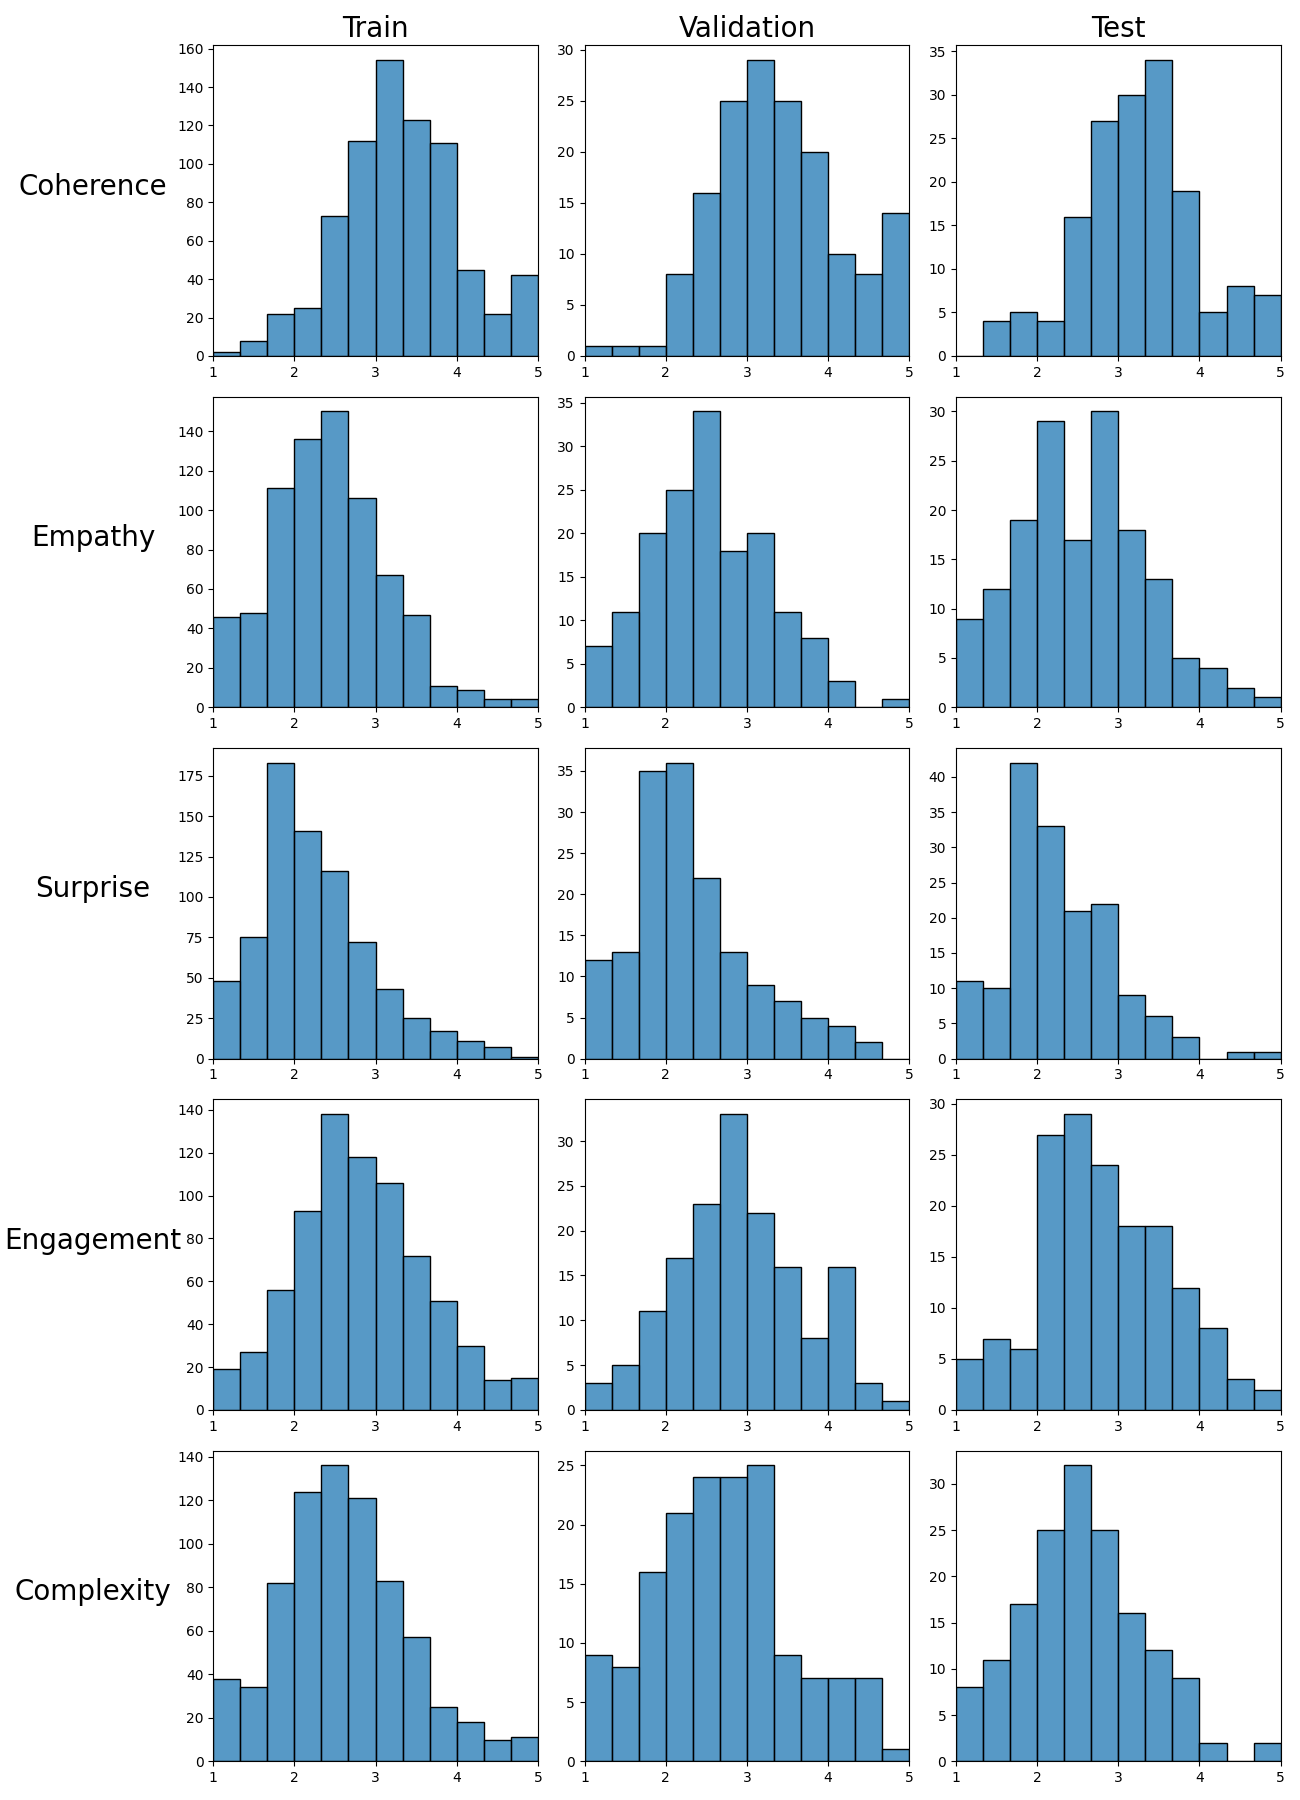
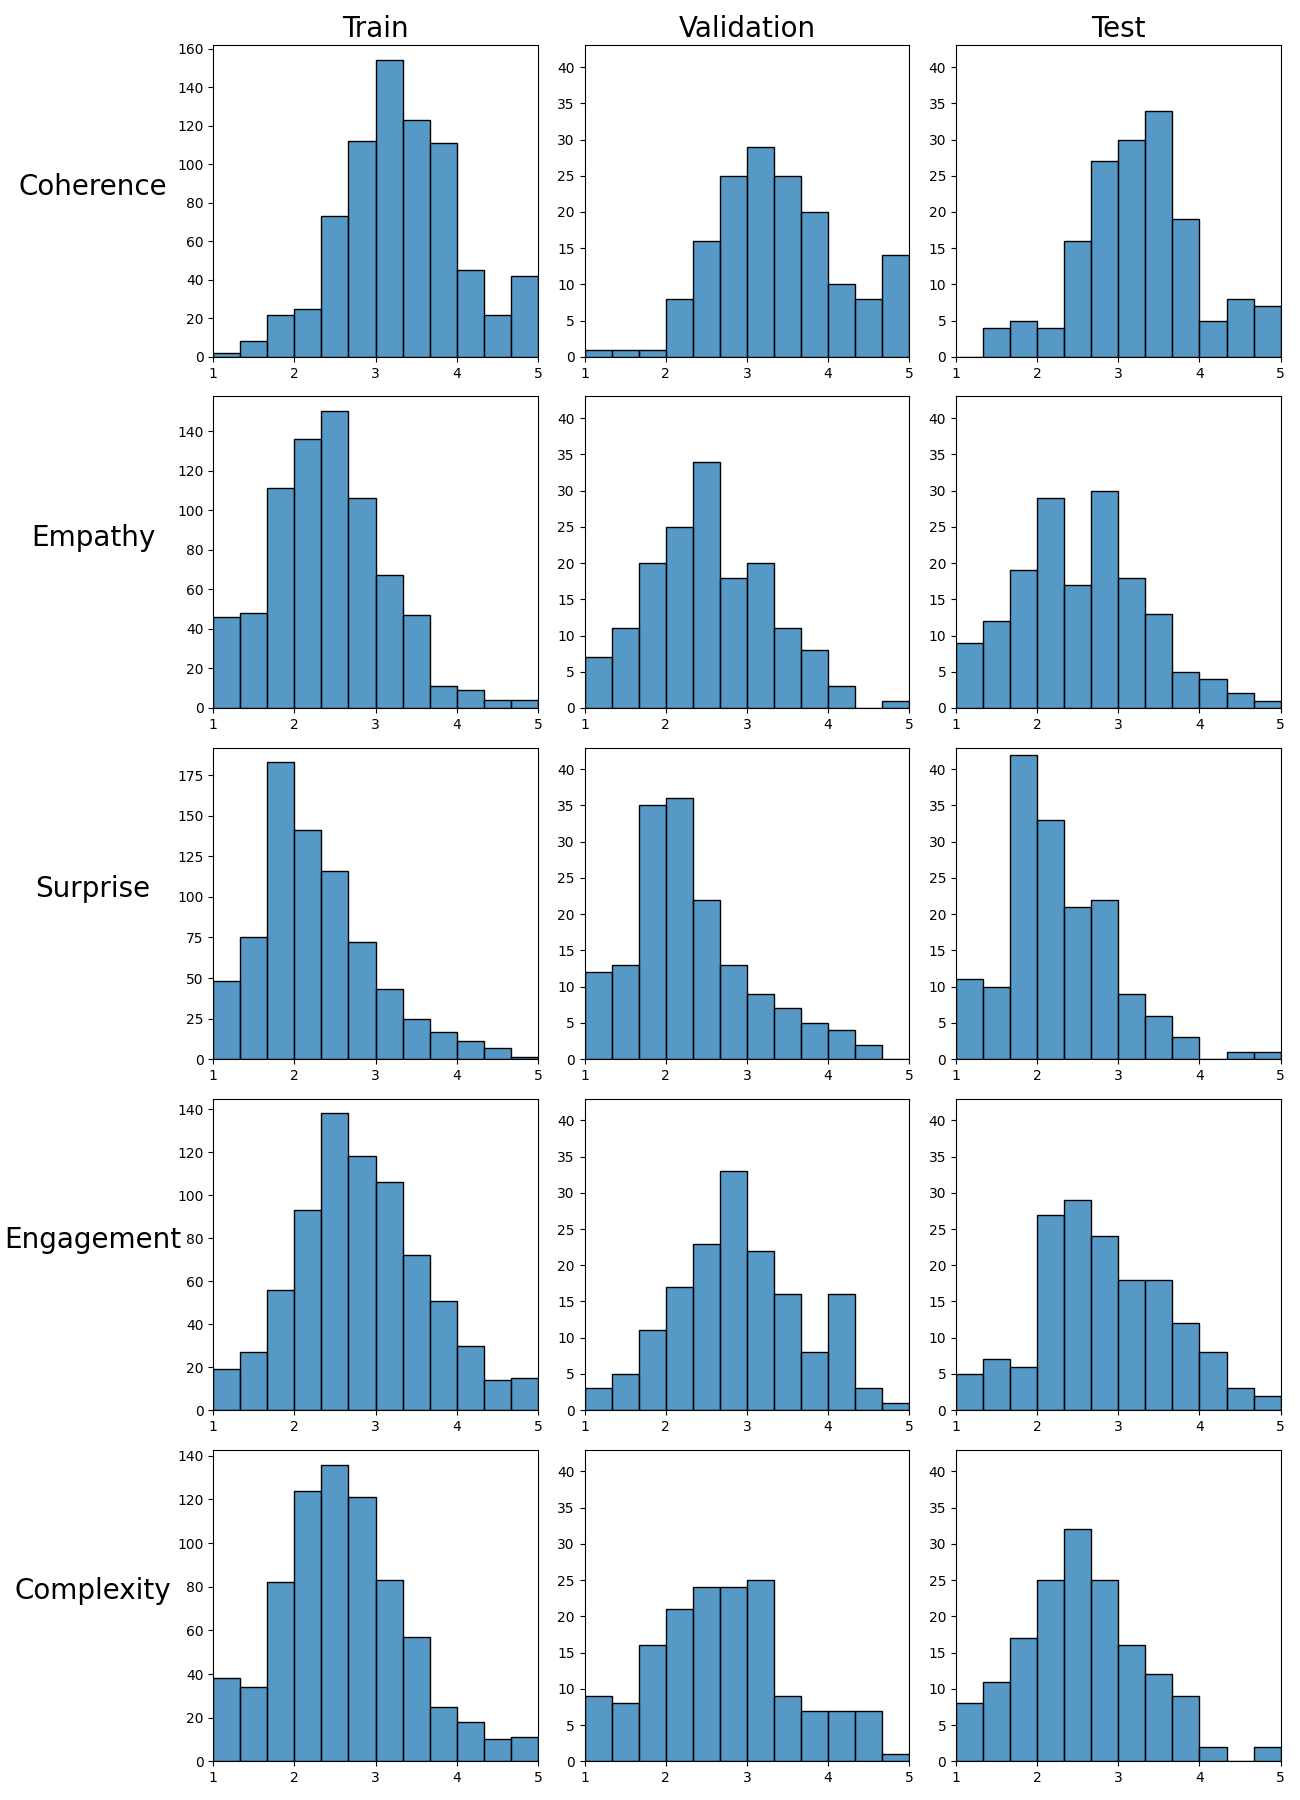
set y lims

diff --git a/src/data_prep.py b/src/data_prep.py
@@ -84,8 +84,10 @@ if __name__ == '__main__':
         ax[i, 0].set_ylabel(metric, rotation=0, fontsize=20)
         ax[i, 0].yaxis.set_label_coords(-0.37, 0.5)
         ax[i, 1].set_xlim(1, 5)
+        ax[i, 1].set_ylim(0, 43)
         ax[i, 1].set_ylabel('')
         ax[i, 2].set_xlim(1, 5)
+        ax[i, 2].set_ylim(0, 43)
         ax[i, 2].set_ylabel('')
 
     for ax, col in zip(ax[0], ['Train', 'Validation', 'Test']):
